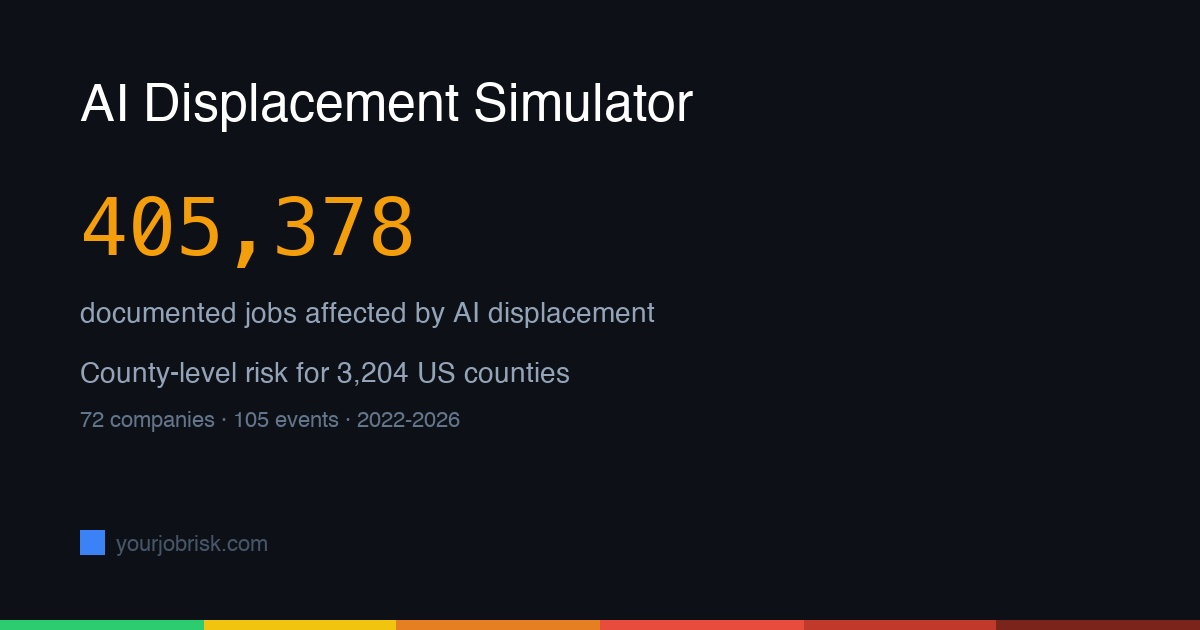
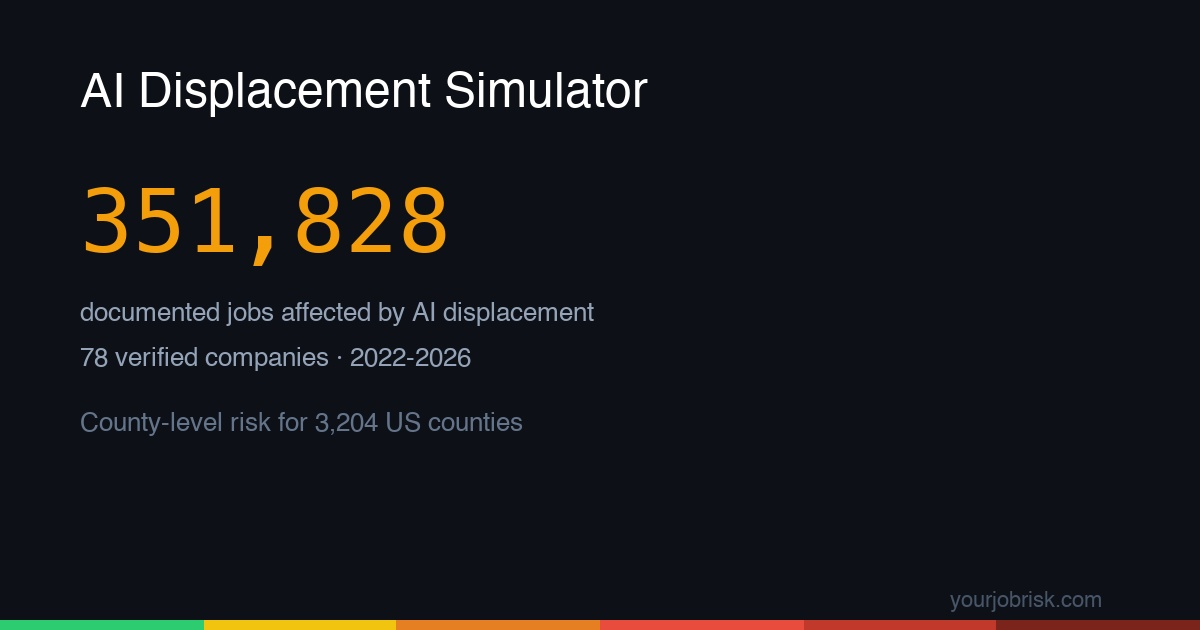
data accuracy: 12-point pre-launch audit for journalistic scrutiny
FIX 1 — BT Group: 55,000 → 11,000. Only 20% (11K) was explicitly
  AI-attributed. Full 55K includes unrelated network rationalization.
  Description updated. Confidence C3.

FIX 2 — Accenture duplicate: removed 2024-03-21 event (same 19,000
  restructuring double-counted from 2023-03-23). -19,000.

FIX 3 — HSBC removed entirely: 35,000-role announcement was CEO
  departure restructuring, not explicitly AI-attributed. -35,000.

FIX 4 — Removed 4 non-displacement entries:
  - Anthropic (CEO prediction quote, not an event)
  - Shopify (hiring freeze memo, not displacement)
  - Goldman Sachs (announcement, zero headcount)
  - Ford (EV transition, not AI)
  4 empty companies removed.

FIX 5 — Full audit: 5 events flagged for missing AI keywords.
  All 5 retained after adding explicit AI/automation attribution
  to descriptions (Amazon 2022, Aurora, Kodiak, Lyft ×2 —
  autonomous vehicle companies whose core business IS AI).

FIX 6 — Corrected totals: 78 companies, 128 events, 351,828 jobs.
  All hardcoded references updated (StoryPage, index.html meta).

FIX 7 — og-image.jpg regenerated with corrected 351,828 number.

FIX 8 — /story Section 3: added italic note below county list:
  "Multiple other Northern Virginia and Maryland counties also
  score 59. The geographic pattern is consistent across the DC
  corridor." Acknowledges broader pattern honestly.

FIX 9 — Confidence display: removed specific percentages (90%,
[…]

diff --git a/frontend/index.html b/frontend/index.html
@@ -8,15 +8,15 @@
     <link rel="preconnect" href="https://fonts.gstatic.com" crossorigin />
     <link rel="stylesheet" href="https://fonts.googleapis.com/css2?family=Inter:wght@400;500;600;700&family=DM+Mono:wght@400;500&display=swap" />
     <title>AI Displacement Simulator</title>
-    <meta name="description" content="Check AI displacement risk for every US county and occupation. 452,828 documented jobs affected across 83 companies. See where your job stands through 2040." />
+    <meta name="description" content="Check AI displacement risk for every US county and occupation. 351,828 documented jobs affected across 78 companies. See where your job stands through 2040." />
     <meta property="og:title" content="AI Displacement Simulator" />
-    <meta property="og:description" content="Check AI displacement risk for every US county and occupation. 452,828 documented jobs affected across 83 companies. See where your job stands through 2040." />
+    <meta property="og:description" content="Check AI displacement risk for every US county and occupation. 351,828 documented jobs affected across 78 companies. See where your job stands through 2040." />
     <meta property="og:image" content="https://yourjobrisk.com/og-image.jpg" />
     <meta property="og:url" content="https://yourjobrisk.com" />
     <meta property="og:type" content="website" />
     <meta name="twitter:card" content="summary_large_image" />
     <meta name="twitter:title" content="AI Displacement Simulator" />
-    <meta name="twitter:description" content="Check AI displacement risk for every US county and occupation. 452,828 documented jobs affected across 83 companies. See where your job stands through 2040." />
+    <meta name="twitter:description" content="Check AI displacement risk for every US county and occupation. 351,828 documented jobs affected across 78 companies. See where your job stands through 2040." />
     <meta name="twitter:image" content="https://yourjobrisk.com/og-image.jpg" />
   </head>
   <body>

diff --git a/frontend/src/components/StoryPage.tsx b/frontend/src/components/StoryPage.tsx
@@ -105,8 +105,8 @@ export default function StoryPage() {
 
 // ---------- Section 1: The Opening ----------
 
-const ALL_TIME = { jobs: 452828, companies: 83, label: 'All time (2022–)' } as const
-const RECENT = { jobs: 79443, companies: 24, label: 'Last 18 months' } as const
+const ALL_TIME = { jobs: 351828, companies: 78, label: 'All time (2022–)' } as const
+const RECENT = { jobs: 79443, companies: 22, label: 'Last 18 months' } as const
 
 function Section1({ top10 }: { top10: CompanyEvent[] }) {
   const [view, setView] = useState<'all' | 'recent'>('all')
@@ -349,6 +349,9 @@ function Section3({ counties, top5 }: { counties: CountyData[]; top5: CountyData
               </span>
             </div>
           ))}
+          <div style={{ fontSize: 12, color: 'var(--text-dim)', fontStyle: 'italic', marginTop: 12, maxWidth: 440, margin: '12px auto 0' }}>
+            Multiple other Northern Virginia and Maryland counties also score 59. The geographic pattern is consistent across the DC corridor.
+          </div>
         </div>
       </div>
     </section>

diff --git a/frontend/src/components/layout/NewsFeed.tsx b/frontend/src/components/layout/NewsFeed.tsx
@@ -227,6 +227,14 @@ export default function NewsFeed({ companies, filterCompany, onClearFilter }: Pr
         </FilterGroup>
       </div>
 
+      {/* Methodology note */}
+      <div style={{ fontSize: 11, color: 'var(--text-dim)', fontStyle: 'italic', lineHeight: 1.5, marginBottom: 12 }}>
+        Inclusion criteria: workforce reductions where the employer or credible reporting explicitly attributes the reduction to AI automation, AI efficiency, or AI tool deployment. General restructuring without explicit AI attribution is excluded. Source links provided for every event.
+      </div>
+      <div style={{ fontSize: 11, color: 'var(--text-muted)', marginBottom: 16 }}>
+        Last verified: {new Date().toISOString().slice(0, 10)}. {items.length} events, {new Set(items.map(i => i.company)).size} companies, {totalRoles.toLocaleString()} jobs documented.
+      </div>
+
       {/* Verified events */}
       {items.length === 0 ? (
         <div style={emptyStyle}>No events match the current filter.</div>

diff --git a/frontend/src/components/CountyDetailPanel.tsx b/frontend/src/components/CountyDetailPanel.tsx
@@ -91,7 +91,7 @@ export default function CountyDetailPanel({ countyFips, year, onClose }: CountyD
           <div style={{ display: 'flex', justifyContent: 'space-between', fontSize: 10, color: 'var(--text-muted)', marginTop: 2 }}>
             <span>{formatExposure(ciLower)}</span>
             <span style={{ color: bandInfo.color }}>
-              {Math.round(uncertainty.confidencePct)}% CI
+              {bandInfo.label}
             </span>
             <span>{formatExposure(ciUpper)}</span>
           </div>

diff --git a/frontend/src/components/CompareCounties/index.tsx b/frontend/src/components/CompareCounties/index.tsx
@@ -283,7 +283,7 @@ function CountyPanel({
               {(county.ai_exposure_score * 100).toFixed(0)}
             </div>
             <div style={{ fontSize: 11, color: 'var(--text-muted)', marginTop: 6 }}>
-              p{Math.round(county.exposure_percentile)} · Confidence {uncertainty.confidencePct}% · {bandInfo.label}
+              p{Math.round(county.exposure_percentile)} · {bandInfo.label}
             </div>
           </div>
 

diff --git a/frontend/src/components/USMap.tsx b/frontend/src/components/USMap.tsx
@@ -433,9 +433,8 @@ export default function USMap({ counties, onCountyClick, selectedCounty, year = 
           fontSize: 18, fontWeight: 700,
           color: bandInfo.color,
         }}>
-          {uncertainty.confidencePct}%
+          {bandInfo.label}
         </div>
-        <div style={{ color: bandInfo.color, fontSize: 10 }}>{bandInfo.label}</div>
       </div>
 
       <svg
